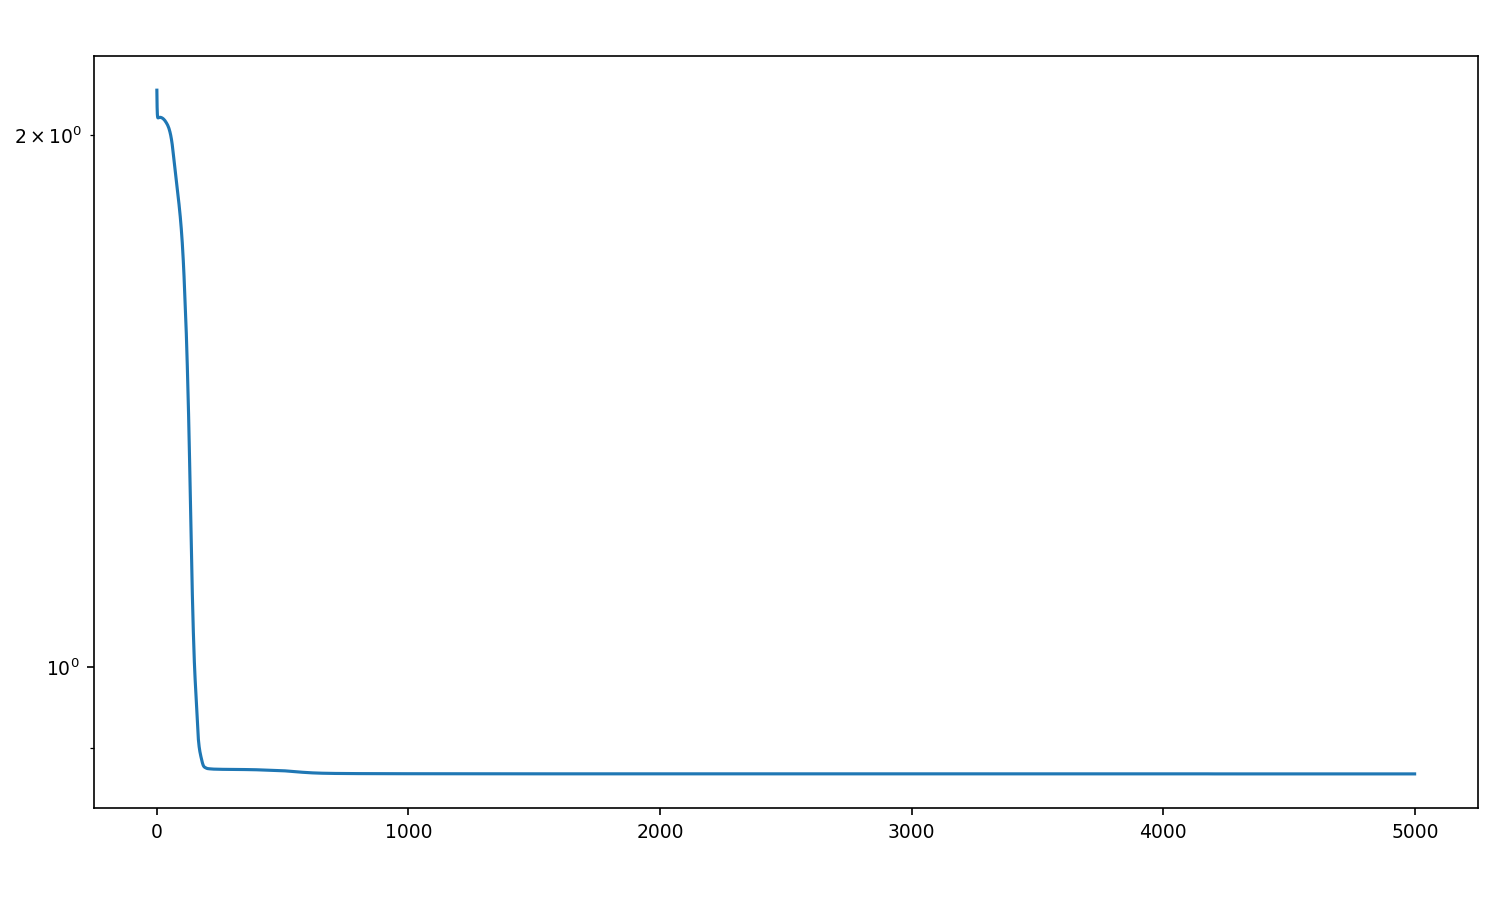
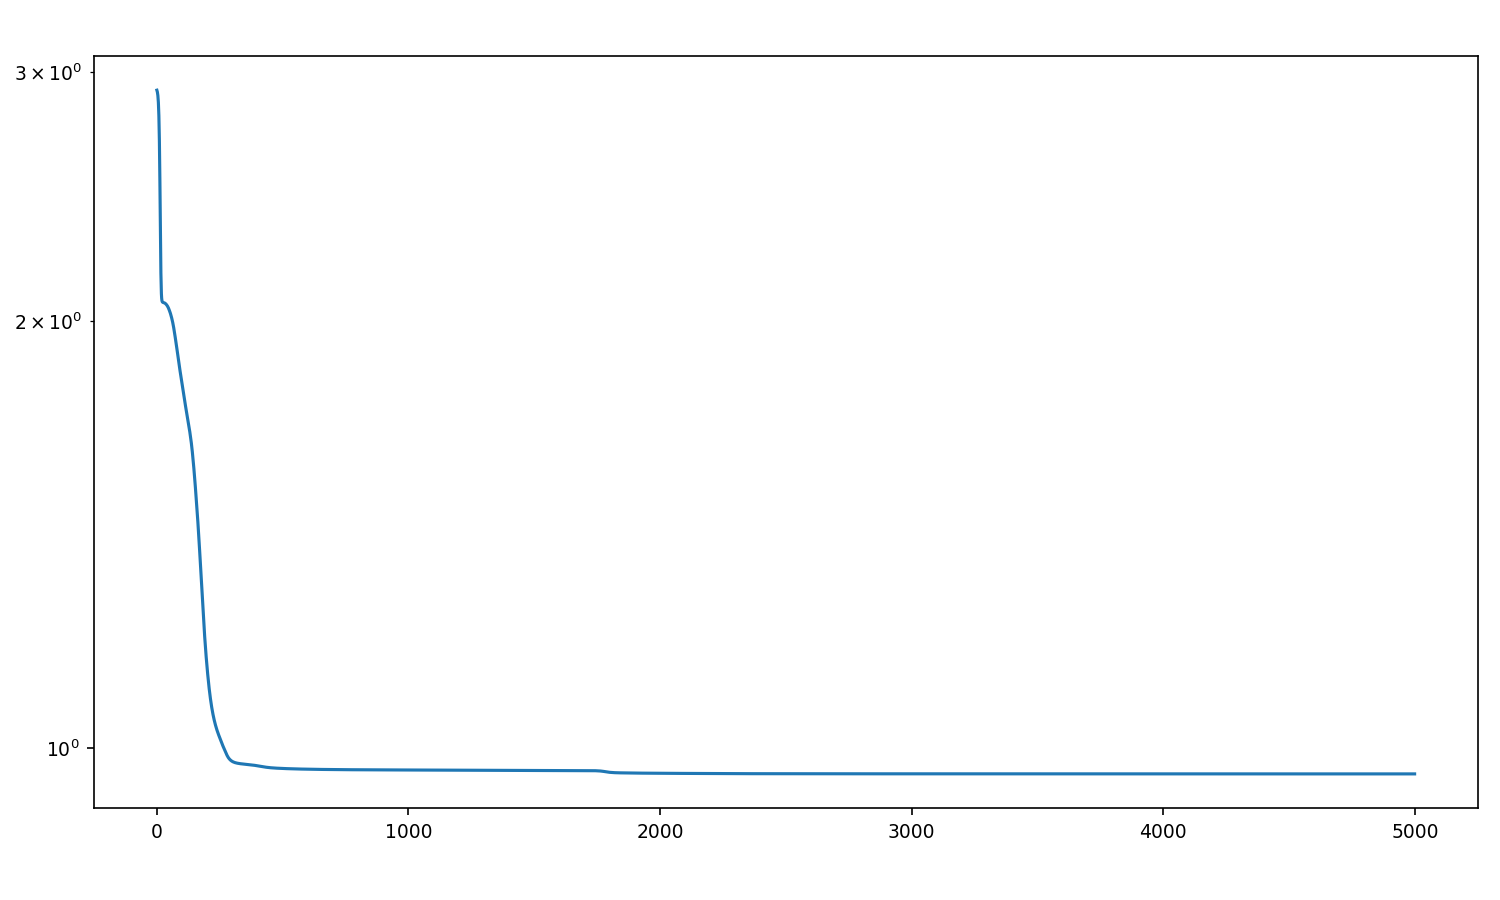
update from bleepblop

diff --git a/quantile_regression_jax.py b/quantile_regression_jax.py
@@ -161,7 +161,7 @@ class QuantileNetwork(eqx.Module):
         # Tau network layers
         tau_keys = jax.random.split(keys[0], len(tau_dims) - 1)
         self.tau_layers = [
-            Dense(
+            NonNegDense(
                 tau_dims[i],
                 tau_dims[i + 1],
                 key=tau_keys[i],
@@ -184,7 +184,8 @@ class QuantileNetwork(eqx.Module):
                 final_dims[i],
                 final_dims[i + 1],
                 key=final_keys[i],
-                activation=(jax.nn.tanh if i < len(final_dims) - 2 else None),
+                activation=None,
+                # activation=(jax.nn.tanh if i < len(final_dims) - 2 else None),
             )
             for i in range(len(final_dims) - 1)
         ]

diff --git a/quantile_regression_common.py b/quantile_regression_common.py
@@ -13,6 +13,7 @@ def get_data(seed=1, m=250, n_x=1, n_tau=11, L=2):
     y ~ N(mu(x), sigma(x))
     """
     random.seed(seed)
+    np.random.seed(seed)
     x = (2 * np.random.rand(m, n_x).astype(np.float64) - 1) * 2
     i = np.argsort(x[:, 0])
     x = x[i]  # to make plotting nicer

diff --git a/README.md b/README.md
@@ -93,3 +93,4 @@ The functions $u$, $v$ must be monotonic in $\tau$ and $y_c$ respectively.
 - randomize $\tau$ sampling during training in jax instead of grid ...
 - regularization/calibration/conformal prediction
 - review the translation to jax and make sure arch is actually the same as tf
+- make sure data is pure and deterministic across envs
